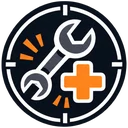
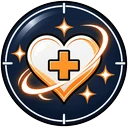
ver1.7.2：換金所の段階4がNaNの不具合、ドド先輩・ネズミの技アイコンを拳とハートに
Claude-Session: https://claude.ai/code/session_01KY6yqZ44oFhyyj1x7zcyUw

diff --git a/index.html b/index.html
@@ -1171,7 +1171,7 @@ body.hasTabs .scr.on{position:fixed;left:0;right:0;top:0;bottom:calc(59px + env(
 <script>
 'use strict';
 /* ゲームの版（タイトル画面に「β版 ver ○」と出る）。更新したらここを書きかえる */
-const VERSION='1.7.1';
+const VERSION='1.7.2';
 /* =====================================================================
    データ表（授業ではここを書きかえて、職業・技・敵・セリフを増やす）
    ===================================================================== */
@@ -3580,9 +3580,9 @@ function zkChar(id){const c=CHARS[id],m=owned(id),A=ATK[id],ab=ABIL[id]||[],ban=
 
 /* ===================== 換金所：しまってある装備はコインに、工具は基本素材に ===================== */
 /* 売値＝階（壱・弐・参）の基本値 × 出来ばえの倍率。SS は高く売れる */
-const SELL_BASE={1:12,2:30,3:70};
+const SELL_BASE={1:12,2:30,3:70,4:150,5:300};
 const SELL_RANK={D:.4,C:.6,B:1,A:1.5,S:2.5,SS:4};
-const sellPrice=(rid,rank)=>Math.round(SELL_BASE[RECIPES[rid].tier]*(SELL_RANK[rank]||1));
+const sellPrice=(rid,rank)=>Math.round((SELL_BASE[RECIPES[rid].tier]||SELL_BASE[4])*(SELL_RANK[rank]||1));
 /* 工具は基本素材（鉄くず・ボルト・鉄板）にもどる。値段が高い工具ほど多い */
 function toolScrap(t){if(TOOLS[t].limited)return{scrap:4,bolt:2,plate:1};const p=TOOLS[t].price||0,o={scrap:Math.max(1,Math.round(p/30))};if(p>=90)o.bolt=Math.round(p/90);if(p>=240)o.plate=Math.round(p/160);return o}
 const scrapTxt=o=>Object.keys(o).map(k=>`${MIC(k,16)}${MATS[k].n}×${o[k]}`).join('　');
@@ -4634,7 +4634,8 @@ function openReforge(){const ms=ownedAll().filter(m=>m.weapon&&m.weapon.attr);
 
 /* ===================== お知らせ（ver1.0.0 第1章 公開） ===================== */
 function openNews(){$('sheetT').textContent='お知らせ';
- $('sheetB').innerHTML=`<div class="news"><b>ver 1.7.1</b><ul><li>審判の塔の床を新しい絵に（法廷・書庫・雷雲）。第2章の仲間のアイコン・表情・装備の絵を準備</li></ul>
+ $('sheetB').innerHTML=`<div class="news"><b>ver 1.7.2</b><ul><li>換金所で段階4の装備の値段が「NaN」になっていた不具合を直した（B 150コイン）</li><li>ドド先輩の衝撃波とネズミの応急修理のアイコンを、工具の絵から拳とハートの絵に変えた（工具を武器にしない）</li></ul>
+  <b>ver 1.7.1</b><ul><li>審判の塔の床を新しい絵に（法廷・書庫・雷雲）。第2章の仲間のアイコン・表情・装備の絵を準備</li></ul>
   <b>ver 1.7.0</b><ul><li>審判の塔に階のルールを3種類：白黒の床（2・3・8F）、鏡（5・13F）、雷鳴（18F）</li></ul>
   <b>ver 1.6.1</b><ul><li>審判の塔6Fのボス「クラガード」の絵を入れた</li></ul>
   <b>ver 1.6.0</b><ul><li>第2章「審判の塔」の試し遊び版を入れた（白黒の魔物13種・ボス7体）。まだ準備中で、ふつうには出撃できない</li></ul>
@@ -4999,7 +5000,7 @@ function fDrawRuleFloor(g,D,cx0,cy0,z){if(ruleOf()!=='wb')return;const T=WB_TILE
  for(const q of D.thunder){g.save();if(q.t<q.warn){const k=q.t/q.warn;g.globalAlpha=.25+.35*k;g.fillStyle='rgba(255,230,120,.45)';g.beginPath();g.arc(q.x,q.y,q.r*k,0,TAU);g.fill();g.strokeStyle='#ffe680';g.lineWidth=4;g.setLineDash([10,8]);g.beginPath();g.arc(q.x,q.y,q.r,0,TAU);g.stroke()}
   else{g.globalAlpha=1-(q.t-q.warn)/18;g.strokeStyle='#fff';g.lineWidth=6;g.beginPath();g.moveTo(q.x+20,q.y-600);g.lineTo(q.x-10,q.y-300);g.lineTo(q.x+15,q.y-150);g.lineTo(q.x,q.y);g.stroke();g.fillStyle='rgba(220,190,255,.6)';g.beginPath();g.arc(q.x,q.y,q.r,0,TAU);g.fill()}g.restore()}}}
 
-const BUILD='11/14 23:55';
+const BUILD='11/14 23:59';
 const CHEST_ITEMS2={'3,12':{oil:2,scrap:2},'17,2':{scrap:3,wire:1}};
 function cadBack(){}
 
